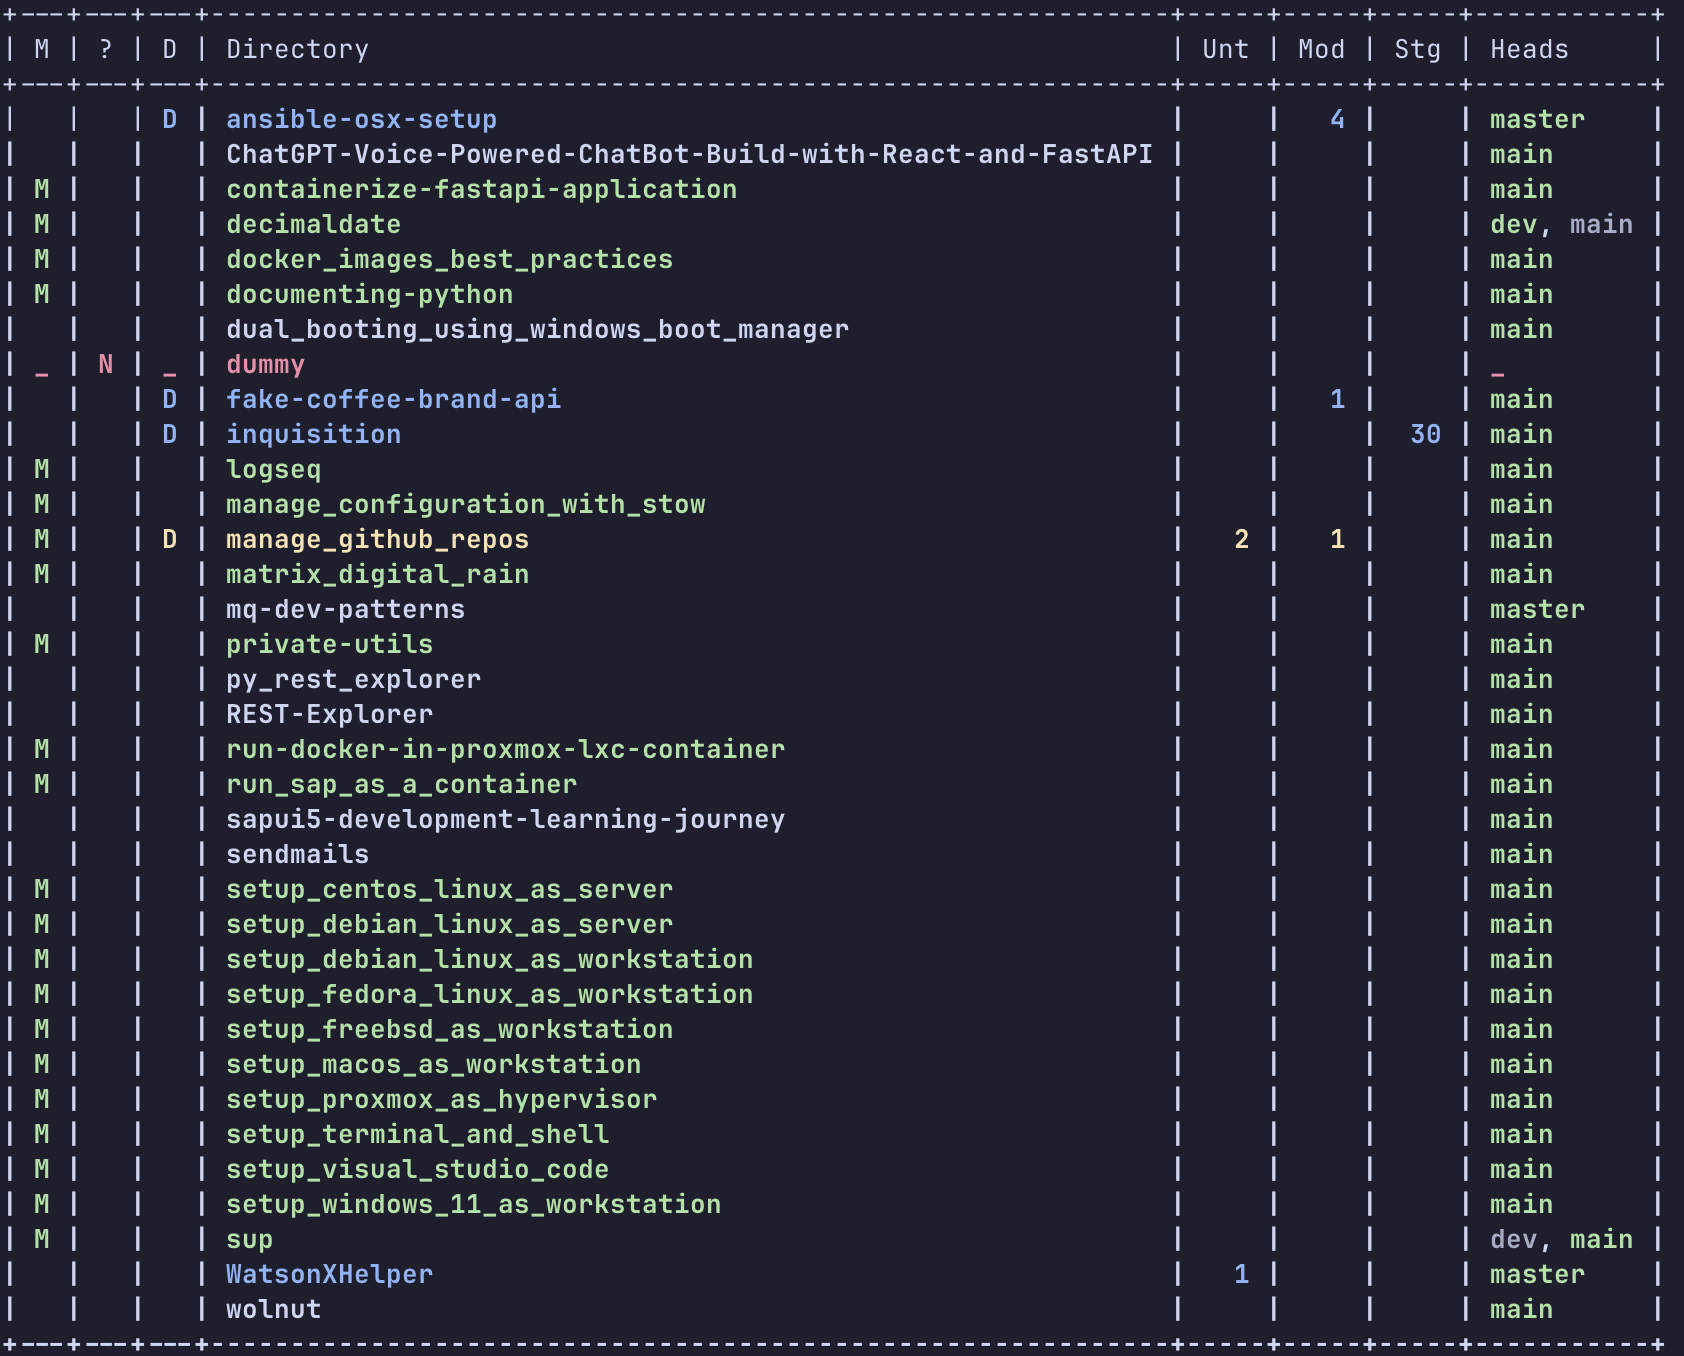
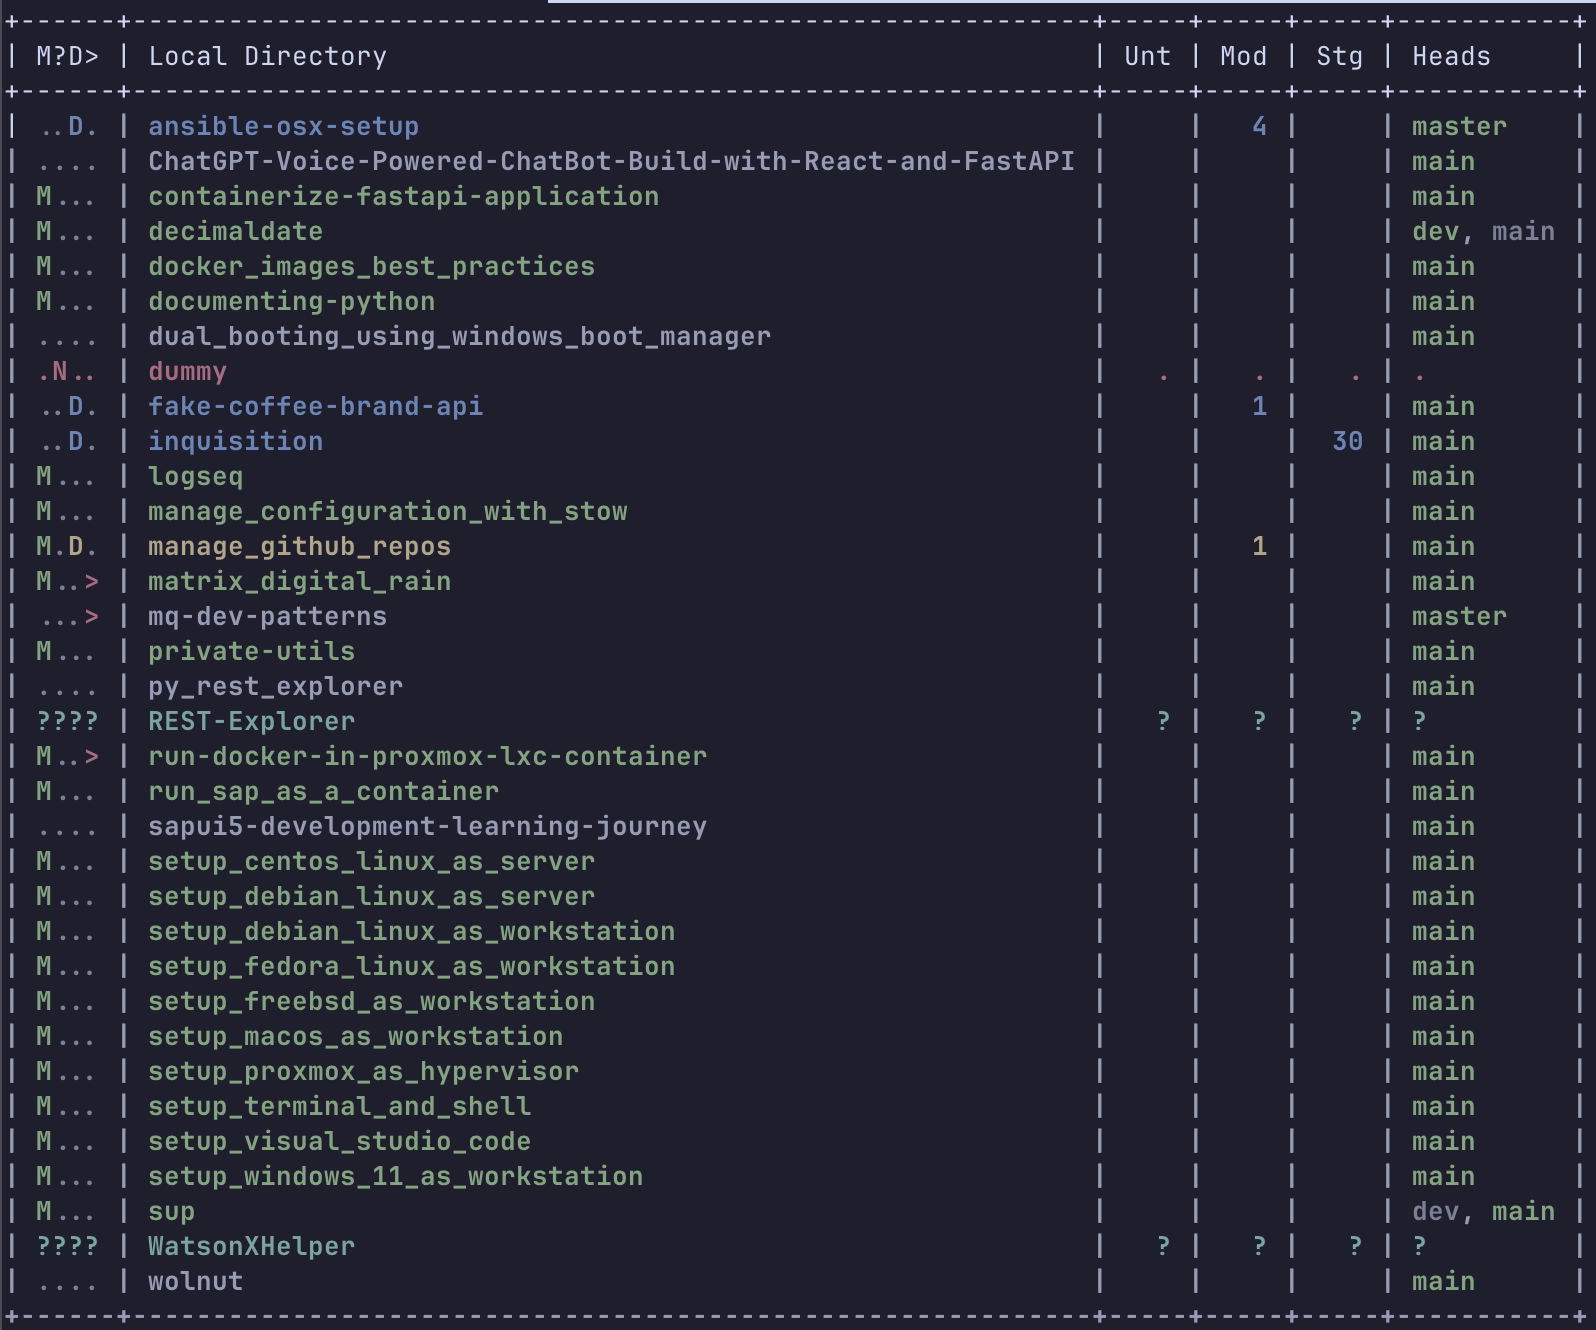
improve colors

Changed region(s): [[0.0, 0.0, 1.0, 1.0]]

diff --git a/manage_github_repos.py b/manage_github_repos.py
@@ -114,7 +114,10 @@ class ManagedRepoList:
                 return True
         return False
 
-    def clone_managed_repos(self: Self) -> None:
+    def clone_managed_repos(
+        self: Self,
+        ignore_error: bool = False,
+    ) -> None:
         """Traververse initial argument list of managed repositories
         and if any repository is not present (as a directory) then clone it."""
         pbar: tqdm = tqdm(self._repos, desc="Clone", unit="rp")
@@ -127,10 +130,18 @@ class ManagedRepoList:
             )
             if not os.path.isdir(rel_local_dir):
                 pbar.set_description(f"CLONE: {managed_repo.local_dir.ljust(max_len)}")
-                _ = Repo.clone_from(repo_url, rel_local_dir)
+                try:
+                    _ = Repo.clone_from(repo_url, rel_local_dir)
+                except Exception as e:
+                    if not ignore_error:
+                        raise e
+
             pbar.set_description(f"Clone: {''.ljust(max_len)}")
 
-    def fetch_remotes(self: Self) -> None:
+    def fetch_remotes(
+        self: Self,
+        ignore_error: bool = False,
+    ) -> None:
         """Traververse initial argument list of managed repositories
         and fetch any remotes."""
         pbar: tqdm = tqdm(self._repos, desc="Fetch", unit="rp")
@@ -139,8 +150,12 @@ class ManagedRepoList:
             pbar.set_description(f"Fetch: {managed_repo.local_dir.ljust(max_len)}")
             rel_repo_dir = managed_repo.local_dir
             repo = Repo(f"../{rel_repo_dir}")
-            for remote in repo.remotes:
-                remote.fetch()
+            try:
+                for remote in repo.remotes:
+                    remote.fetch()
+            except Exception as e:
+                if not ignore_error:
+                    raise e
             pbar.set_description(f"Fetch: {''.ljust(max_len)}")
 
 
@@ -156,13 +171,12 @@ def prepare_table_for_print_repos() -> PrettyTable:
 
     # Table headers
 
-    SUMMARY = "M?D"
+    SUMMARY = "M?D>"
     DIR: str = "Local Directory"
     HEADS = "Heads"
     UNTRACKED_FILES: str = "Unt"
     MODIFIED_FILES: str = "Mod"
     STAGED_FILES: str = "Stg"
-    IS_LATEST_COMMITED: str = "C"
 
     table = PrettyTable(
         [
@@ -172,7 +186,6 @@ def prepare_table_for_print_repos() -> PrettyTable:
             MODIFIED_FILES,
             STAGED_FILES,
             HEADS,
-            IS_LATEST_COMMITED,
         ]
     )
     table.align[SUMMARY] = "l"
@@ -181,11 +194,10 @@ def prepare_table_for_print_repos() -> PrettyTable:
     table.align[UNTRACKED_FILES] = "r"
     table.align[MODIFIED_FILES] = "r"
     table.align[STAGED_FILES] = "r"
-    table.align[IS_LATEST_COMMITED] = "r"
     return table
 
 
-# TODO Dont use color names - instead use decoration functions like: `decorate_color_as_missing_repo`
+# TODO Don't use color names - instead use decoration functions like: `decorate_color_as_missing_repo`
 
 
 def yellow_text(text: str) -> str:
@@ -212,11 +224,19 @@ def dim_white_text(text: str) -> str:
     return f"{Fore.WHITE}{Style.DIM}{text}{Fore.RESET}"
 
 
+def dim_cyan_text(text: str) -> str:
+    return f"{Fore.CYAN}{Style.DIM}{text}{Fore.RESET}"
+
+
+def cyan_text(text: str) -> str:
+    return f"{Fore.CYAN}{text}{Fore.RESET}"
+
+
 def print_repos(
     dir_list: list[str],
     repos: ManagedRepoList,
 ) -> None:
-    repo_table: PrettyTable = prepare_table_for_print_repos()
+    pretty_repo_table: PrettyTable = prepare_table_for_print_repos()
 
     max_len = 20  # TODO calculate
     pbar: tqdm = tqdm(dir_list, desc="Build", unit="rp")
@@ -228,97 +248,114 @@ def print_repos(
         except InvalidGitRepositoryError:
             repo = None
 
-        if repo:
+        try:
 
-            local_managed: bool = repos.is_local_dir_managed(dir_name)
+            if repo:
 
-            # TODO Don't use try/except as program flow
-            try:
-                staged_files: int = len(repo.index.diff("HEAD"))
-            except Exception:
-                staged_files = 0
+                local_managed: bool = repos.is_local_dir_managed(dir_name)
 
-            modified_files: int = len(repo.index.diff(None))
-            untracked_files: int = len(repo.untracked_files)
-            head_names: list[str] = sorted([h.name for h in repo.heads])
-            active_branch_name: str = repo.active_branch.name
-            colored_head_names: list[str] = [
-                (
-                    green_text(head_name)
-                    if head_name == active_branch_name
-                    else white_text(head_name)
+                # TODO Don't use try/except as program flow
+                try:
+                    staged_files: int = len(repo.index.diff("HEAD"))
+                except Exception:
+                    staged_files = 0
+
+                modified_files: int = len(repo.index.diff(None))
+                untracked_files: int = len(repo.untracked_files)
+                head_names: list[str] = sorted([h.name for h in repo.heads])
+                active_branch_name: str = repo.active_branch.name
+                colored_head_names: list[str] = [
+                    (
+                        green_text(head_name)
+                        if head_name == active_branch_name
+                        else dim_white_text(head_name)
+                    )
+                    for head_name in head_names
+                ]
+
+                # ---
+
+                col_text_managed = (
+                    green_text("M") if local_managed else dim_white_text(".")
                 )
-                for head_name in head_names
-            ]
-
-            # ---
-
-            col_text_managed = green_text("M") if local_managed else dim_white_text(".")
-            col_text_is_repo: str = dim_white_text(".")
-            col_text_dirty_repo: str = (
-                (yellow_text("D") if local_managed else blue_text("D"))
-                if repo.is_dirty()
-                else dim_white_text(".")
-            )
-
-            col_text_repo_name: str = (
-                (yellow_text(dir_name) if local_managed else blue_text(dir_name))
-                if repo.is_dirty() or untracked_files
-                else (green_text(dir_name) if local_managed else f"{dir_name}")
-            )
-
-            col_text_untracked: str = (
-                (
-                    yellow_text(untracked_files)
-                    if local_managed
-                    else blue_text(untracked_files)
+                col_text_is_repo: str = dim_white_text(".")
+                col_text_dirty_repo: str = (
+                    (yellow_text("D") if local_managed else blue_text("D"))
+                    if repo.is_dirty()
+                    else dim_white_text(".")
                 )
-                if untracked_files
-                else ""
-            )
 
-            col_text_modified: str = (
-                (
-                    f"{Fore.YELLOW}{Style.BRIGHT}{modified_files}{Fore.RESET}"
-                    if local_managed
-                    else f"{Fore.BLUE}{modified_files}{Fore.RESET}"
+                col_text_repo_name: str = (
+                    (yellow_text(dir_name) if local_managed else blue_text(dir_name))
+                    if repo.is_dirty() or untracked_files
+                    else (green_text(dir_name) if local_managed else f"{dir_name}")
                 )
-                if modified_files
-                else ""
-            )
 
-            col_text_staged: str = (
-                (
-                    f"{Fore.YELLOW}{Style.BRIGHT}{staged_files}{Fore.RESET}"
-                    if local_managed
-                    else f"{Fore.BLUE}{staged_files}{Fore.RESET}"
+                col_text_untracked: str = (
+                    (
+                        yellow_text(untracked_files)
+                        if local_managed
+                        else blue_text(untracked_files)
+                    )
+                    if untracked_files
+                    else ""
                 )
-                if staged_files
-                else ""
-            )
 
-            col_text_heads: str = ", ".join(colored_head_names)
+                col_text_modified: str = (
+                    (
+                        yellow_text(modified_files)
+                        if local_managed
+                        else blue_text(modified_files)
+                    )
+                    if modified_files
+                    else ""
+                )
 
-            remote = repo.remote("origin")
-            remote.fetch()
-            latest_remote_commit = remote.refs[repo.active_branch.name].commit
-            latest_local_commit = repo.head.commit
-            latest_commit_is_pushed: str = latest_local_commit == latest_remote_commit
-            col_latest_commit_is_pushed: str = (
-                dim_white_text(".") if latest_commit_is_pushed else red_text(">")
-            )
+                col_text_staged: str = (
+                    (
+                        yellow_text(staged_files)
+                        if local_managed
+                        else blue_text(staged_files)
+                    )
+                    if staged_files
+                    else ""
+                )
 
-        else:
+                col_text_heads: str = ", ".join(colored_head_names)
 
-            col_text_managed: str = red_text(".")
-            col_text_is_repo: str = red_text("N")
-            col_text_dirty_repo: str = red_text(".")
-            col_text_repo_name: str = red_text(dir_name)
-            col_text_untracked: str = red_text(".")
-            col_text_modified: str = red_text(".")
-            col_text_staged: str = red_text(".")
-            col_text_heads: str = red_text(".")
-            col_latest_commit_is_pushed: str = red_text(".")
+                remote = repo.remote("origin")
+                remote.fetch()
+                latest_remote_commit = remote.refs[repo.active_branch.name].commit
+                latest_local_commit = repo.head.commit
+                latest_commit_is_pushed: str = (
+                    latest_local_commit == latest_remote_commit
+                )
+                col_latest_commit_is_pushed: str = (
+                    dim_white_text(".") if latest_commit_is_pushed else red_text(">")
+                )
+
+            else:
+
+                col_text_managed: str = red_text(".")
+                col_text_is_repo: str = red_text("N")
+                col_text_dirty_repo: str = red_text(".")
+                col_text_repo_name: str = red_text(dir_name)
+                col_text_untracked: str = red_text(".")
+                col_text_modified: str = red_text(".")
+                col_text_staged: str = red_text(".")
+                col_text_heads: str = red_text(".")
+                col_latest_commit_is_pushed: str = red_text(".")
+
+        except Exception as e:
+            col_text_managed: str = cyan_text("?")
+            col_text_is_repo: str = cyan_text("?")
+            col_text_dirty_repo: str = cyan_text("?")
+            col_text_repo_name: str = cyan_text(dir_name)
+            col_text_untracked: str = cyan_text("?")
+            col_text_modified: str = cyan_text("?")
+            col_text_staged: str = cyan_text("?")
+            col_text_heads: str = cyan_text("?")
+            col_latest_commit_is_pushed: str = cyan_text("?")
 
         col_text_summary: str = (
             col_text_managed
@@ -326,7 +363,7 @@ def print_repos(
             + col_text_dirty_repo
             + col_latest_commit_is_pushed
         )
-        repo_table.add_row(
+        pretty_repo_table.add_row(
             [
                 col_text_summary,
                 col_text_repo_name,
@@ -336,9 +373,10 @@ def print_repos(
                 col_text_heads,
             ]
         )
+
         pbar.set_description(f"Build: {''.ljust(max_len)}")
 
-    print(repo_table)
+    print(pretty_repo_table)
 
 
 def main() -> None:
@@ -355,10 +393,18 @@ def main() -> None:
         "repos.csv"
     )
     # Observe: Repos will be created in parent directory by design
-    managed_repos.clone_managed_repos()
+    try:
+        managed_repos.clone_managed_repos()
+    except Exception as e:
+        # ignore
+        pass
 
     # Fetch all remotes (no merge or rebase)
-    managed_repos.fetch_remotes()
+    try:
+        managed_repos.fetch_remotes()
+    except Exception as e:
+        # ignore
+        pass
 
     # Sorted parent directory names, ignore case
     # Not all directories are repositories and not all are managed
